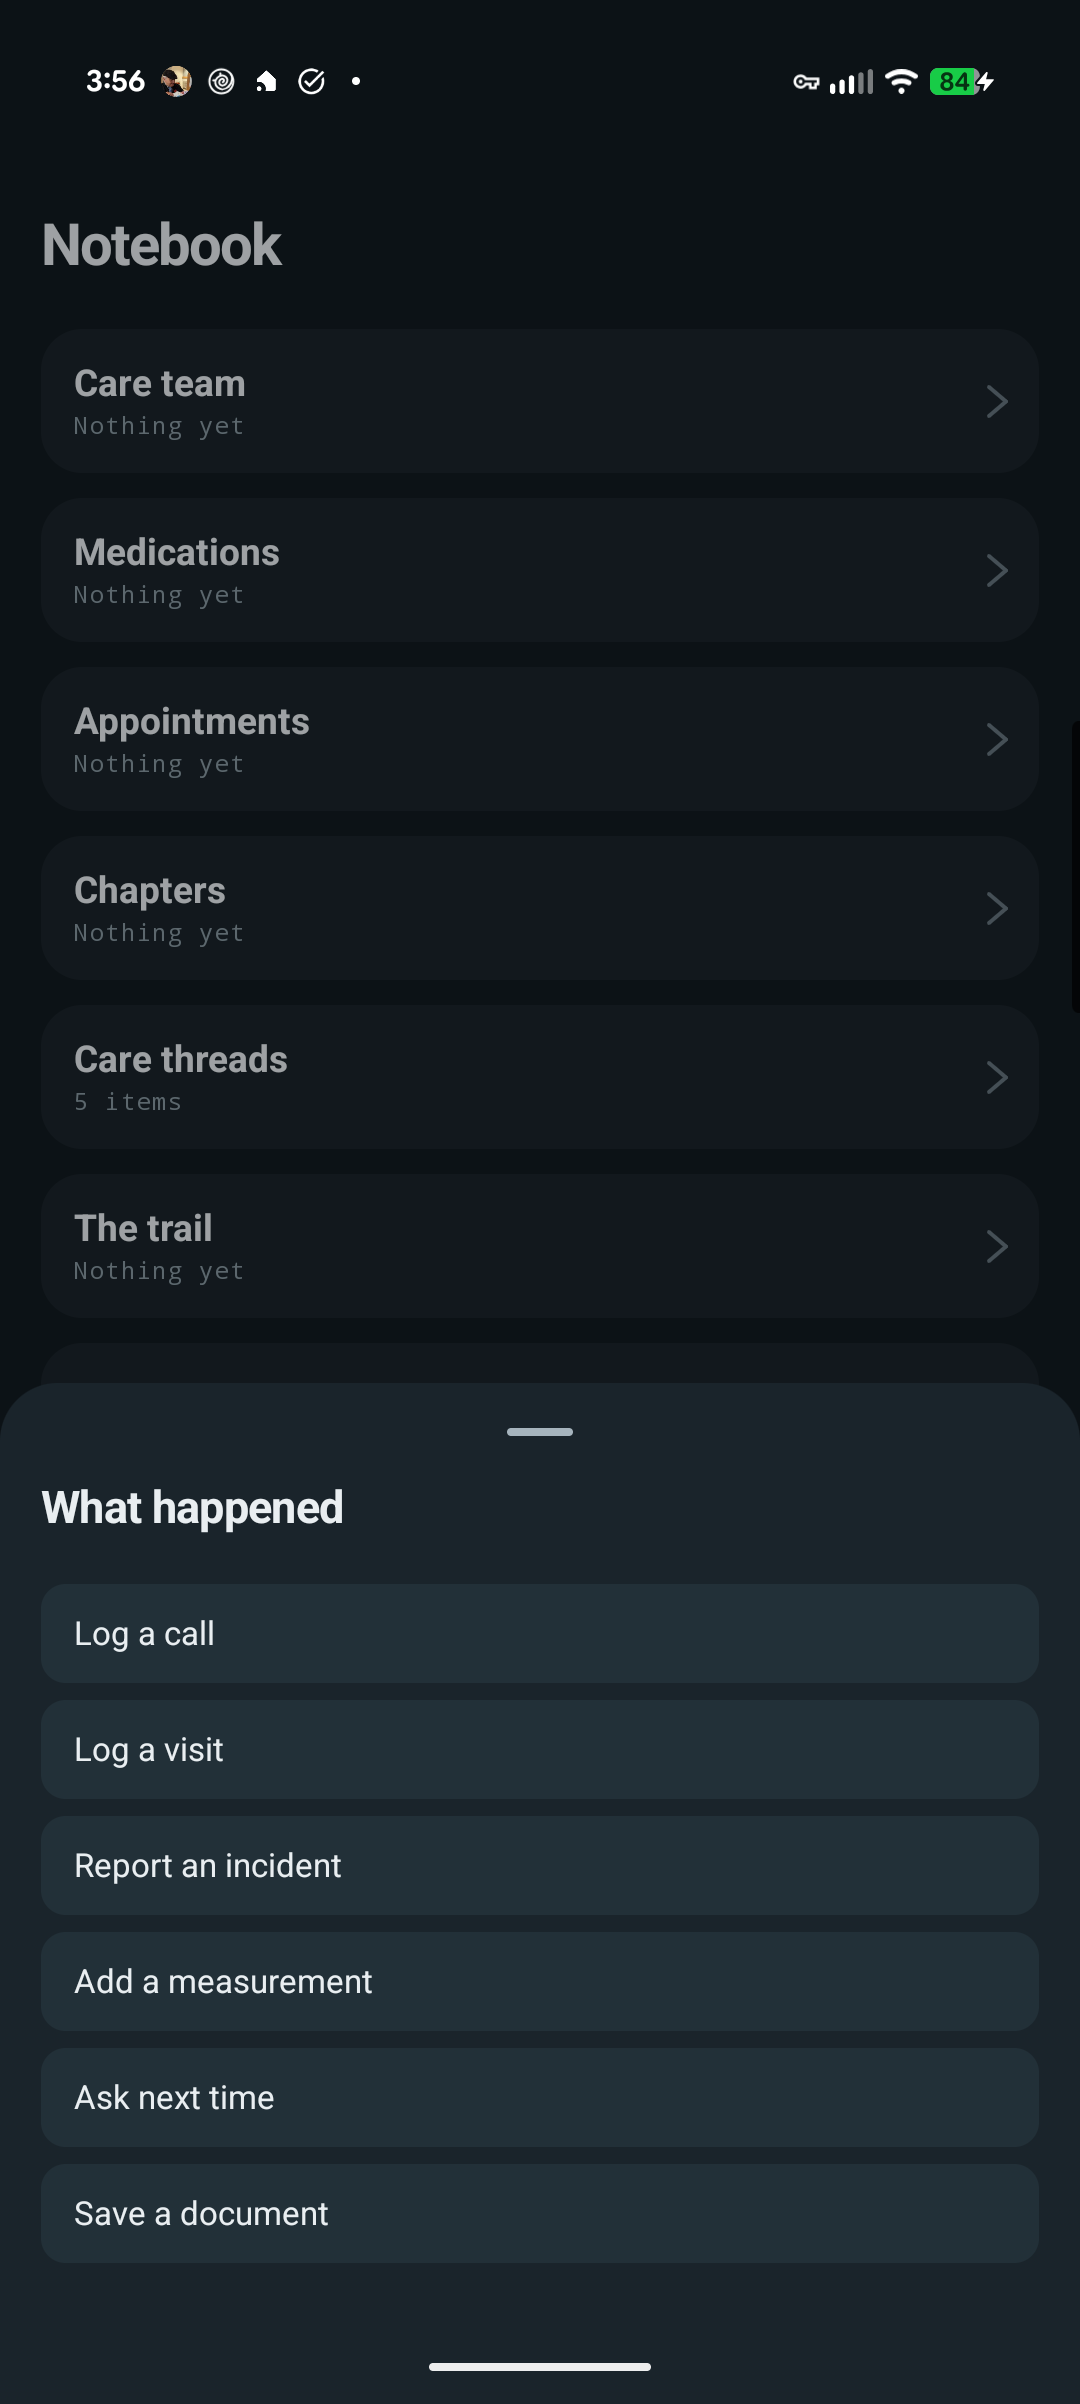
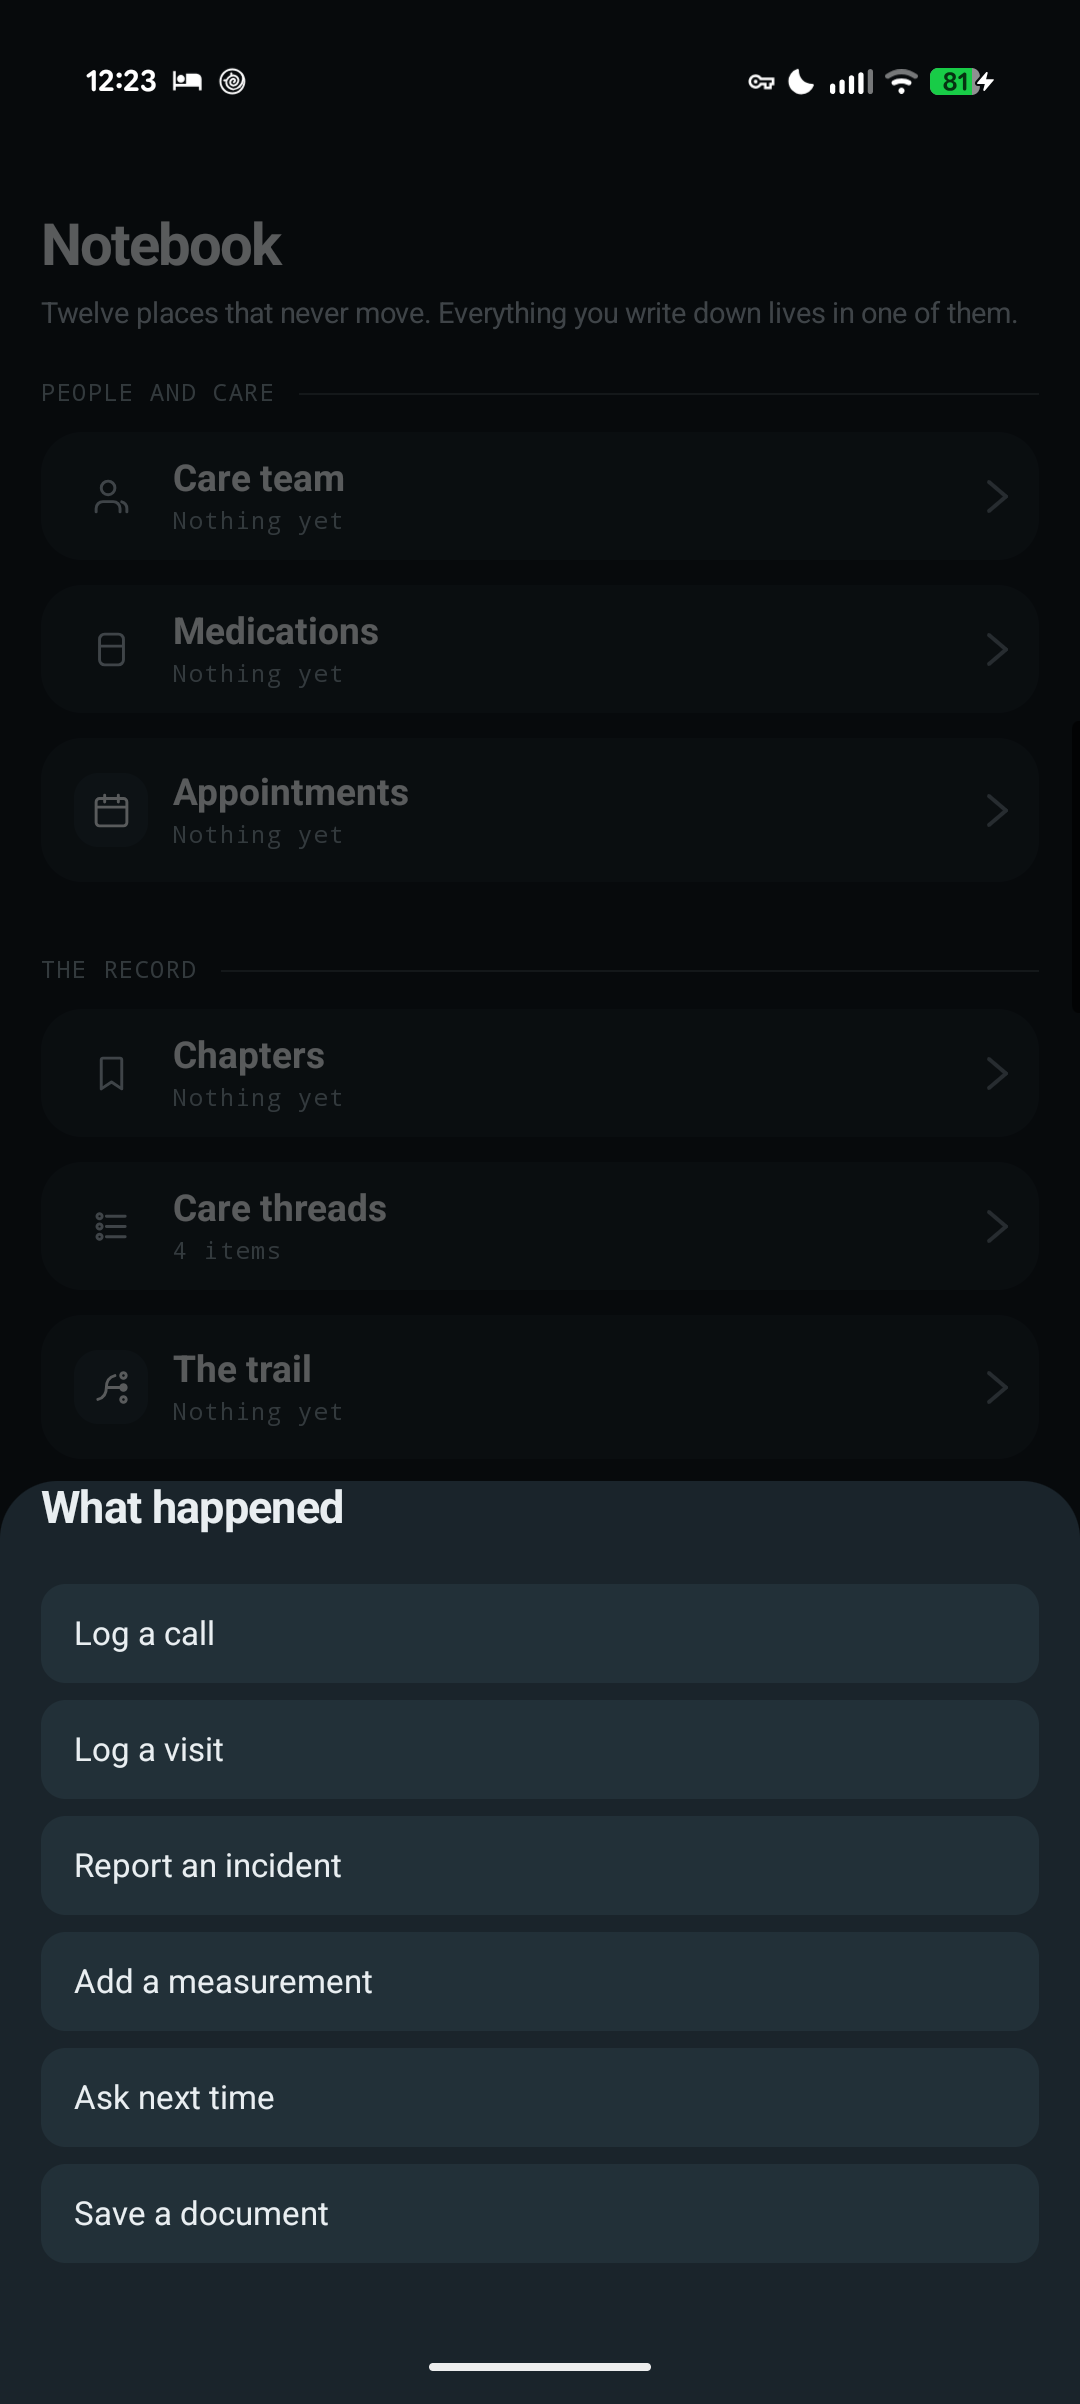
The capture sheet, looked at rather than tested
Part of issue #43, the retroactive audit. Two defects on the screen every
piece of data enters through, and neither would have been found by a test.

Choosing "Save a document" closed the sheet and did nothing, D44. To the
person that is indistinguishable from the app losing what they tried to save.
It now says plainly that it is not built and why: it needs somewhere to keep
the photograph, and that is being built first so nothing they save can go
missing. The reason matters, because "not built yet" on its own reads as
neglect and this audience gets enough of that elsewhere. It carries
ShellTags.NOT_BUILT so it cannot survive to release.

The scrim barely dimmed, D45. Material's default is a light veil and against
this app's dark surfaces the notebook stayed almost as bright as the sheet,
so it read as two screens at once. Black at 62%, judged on the device in dark
theme because that is the harder of the two. The notebook behind goes from
(18,26,32) to (10,14,16) and stays legible enough to keep your place.

Worth saying that the scrim was a default nobody chose. Everything else on
that screen was specified and this was inherited, which is the kind of thing
that survives a review by not being noticed.

A test now asserts every one of the six ways in either works or explains
itself, and that the explanation is a reason rather than a shrug. 92
instrumented tests pass.

diff --git a/android/app/src/main/kotlin/com/kamsiob/healthtrail/ui/NotebookShell.kt b/android/app/src/main/kotlin/com/kamsiob/healthtrail/ui/NotebookShell.kt
@@ -25,7 +25,9 @@ import com.kamsiob.healthtrail.data.TemplateCatalog
 import com.kamsiob.healthtrail.i18n.LocalStrings
 import com.kamsiob.healthtrail.ui.components.BottomNav
 import com.kamsiob.healthtrail.ui.components.Destination
+import androidx.compose.foundation.background
 import com.kamsiob.healthtrail.ui.components.FilledButton
+import com.kamsiob.healthtrail.ui.components.TextAction
 import com.kamsiob.healthtrail.ui.screens.CaptureDraft
 import com.kamsiob.healthtrail.ui.screens.CaptureFormScreen
 import com.kamsiob.healthtrail.ui.screens.CaptureKind
@@ -215,6 +217,21 @@ fun NotebookShell(repository: Repository) {
             )
         }
 
+        // **Document says so rather than doing nothing.** The sheet offers six
+        // ways in and this one is not built, so choosing it used to close the
+        // sheet and silently do nothing, which is the app appearing to lose
+        // what someone tried to save. It now says plainly that it is not built
+        // and why, which is the same honesty the not-yet-built destinations
+        // carry, and it is greppable through ShellTags.NOT_BUILT so it cannot
+        // survive to release. Issue #57.
+        if (kind == CaptureKind.DOCUMENT) {
+            NotBuiltYet(
+                name = strings["capture.document"],
+                detail = strings["capture.not_built"],
+                onClose = { capturing = null },
+            )
+        }
+
         // Measurement has its own screen because it does not fit the shared
         // form: a value needs to know what is being measured before anything
         // else on the screen means anything.
@@ -391,20 +408,30 @@ private fun CouldNotRead(onRetry: () -> Unit) {
  * here at release, that is a bug.
  */
 @Composable
-private fun NotBuiltYet(name: String) {
+private fun NotBuiltYet(
+    name: String,
+    detail: String? = null,
+    onClose: (() -> Unit)? = null,
+) {
     val strings = LocalStrings.current
     Column(
         modifier = Modifier
             .fillMaxSize()
+            .background(HealthTrail.colors.paper)
+            .systemBarsPadding()
             .padding(horizontal = Space.screenHorizontal, vertical = Space.l)
             .testTag(ShellTags.NOT_BUILT),
     ) {
         Text(text = name, style = HealthTrail.type.displayL, color = HealthTrail.colors.ink)
         Spacer(Modifier.height(Space.s))
         Text(
-            text = strings["shell.not_built"],
+            text = detail ?: strings["shell.not_built"],
             style = HealthTrail.type.bodyM,
             color = HealthTrail.colors.ink2,
         )
+        if (onClose != null) {
+            Spacer(Modifier.height(Space.l))
+            TextAction(label = strings["common.close"], onClick = onClose)
+        }
     }
 }

diff --git a/android/app/src/main/kotlin/com/kamsiob/healthtrail/ui/screens/CaptureSheet.kt b/android/app/src/main/kotlin/com/kamsiob/healthtrail/ui/screens/CaptureSheet.kt
@@ -22,6 +22,7 @@ import androidx.compose.runtime.remember
 import androidx.compose.ui.Alignment
 import androidx.compose.ui.Modifier
 import androidx.compose.ui.draw.clip
+import androidx.compose.ui.graphics.Color
 import androidx.compose.ui.platform.testTag
 import androidx.compose.ui.unit.dp
 import androidx.compose.ui.semantics.Role
@@ -77,6 +78,12 @@ fun CaptureSheet(
         onDismissRequest = onDismiss,
         sheetState = sheetState,
         containerColor = colors.card,
+        // **A scrim that actually dims.** Material's default is a light veil,
+        // and against this app's dark surfaces the notebook behind the sheet
+        // stayed almost as bright as the sheet itself and went on competing for
+        // the eye. Looked at on the phone, it did not read as a sheet over a
+        // screen so much as two screens at once.
+        scrimColor = Color.Black.copy(alpha = SCRIM_ALPHA),
         shape = Radius.bottomSheet,
         // **No drag handle**, and it is removed rather than labeled.
         //
@@ -173,3 +180,13 @@ private fun labelKey(kind: CaptureKind): String = when (kind) {
     CaptureKind.QUESTION -> "capture.question"
     CaptureKind.DOCUMENT -> "capture.document"
 }
+
+/**
+ * How far the scrim dims what is behind the sheet.
+ *
+ * Enough that the notebook reads as behind rather than beside, and not so much
+ * that the person loses where they were. Judged on the device in dark theme,
+ * which is the harder of the two: on warm paper a lighter scrim would do, and
+ * one value that works in both is worth more than two that each work in one.
+ */
+private const val SCRIM_ALPHA = 0.62f

diff --git a/android/app/src/androidTest/kotlin/com/kamsiob/healthtrail/ui/CaptureTest.kt b/android/app/src/androidTest/kotlin/com/kamsiob/healthtrail/ui/CaptureTest.kt
@@ -127,6 +127,29 @@ class CaptureTest {
     }
 
     @Test
+    fun everyWayInEitherWorksOrSaysWhyNot() {
+        // The sheet offers six ways in. Choosing one used to close the sheet
+        // and silently do nothing for the one that is not built, which is the
+        // app appearing to lose what somebody tried to save. Whatever is
+        // unbuilt must say so, and it must say so in words rather than by
+        // going quiet.
+        val strings = Strings.load(context)
+        CaptureKind.entries.forEach { kind ->
+            val handled = kind.usesTheSharedForm ||
+                kind == CaptureKind.MEASUREMENT ||
+                kind == CaptureKind.DOCUMENT
+            assertTrue(
+                "$kind is offered on the sheet and nothing happens when it is chosen",
+                handled,
+            )
+        }
+        // And the one that is not built says why, rather than only that it is
+        // not built, because "not built" on its own reads as neglect.
+        val why = strings["capture.not_built"]
+        assertTrue("the unbuilt path does not explain itself: $why", why.length > 40)
+    }
+
+    @Test
     fun theThreadDefaultsToNotKnowingAndSaysWhereThatGoes() {
         // Not knowing is the honest default for someone who just tapped save,
         // and the screen has to say where the entry is going while they can

diff --git a/HANDOFF.md b/HANDOFF.md
@@ -70,12 +70,13 @@ Verified means checked through the mechanism, not inferred from the code being w
 | The notebook's fold behavior | Walked on the Pixel with a hospital stay template: appointments, the trail, documents, and standing instructions forward, money and progress collapsed, which is exactly what that template names |
 | Dynamic type at font scale 2.0 | Every built screen looked at on the phone with the system font at maximum. Two defects found and fixed, both invisible at 1.0. The setting was restored afterward |
 | Reduced motion | Verified with `animator_duration_scale` actually set to 0 on the phone, not by reading the code. A press still acknowledges, reaching the same target through a 100ms fade rather than a spring. The setting was restored afterward |
+| The capture sheet, looked at with fresh eyes | Two defects nothing else would have found: "Save a document" closed the sheet and did nothing, and the inherited Material scrim barely dimmed the notebook behind it. D44 and D45 |
 | Screen reader labels | `ScreenReaderTest` walks every screen's semantics tree, including a sheet's own window, and fails any touchable node with no text and no content description. Nine screens. It found one on its first run and that is fixed |
 | Every screen looked at with the keyboard up | Two defects found that way and nowhere else: the setup button colliding with the last field, and the field clipped mid-box at the scroll boundary |
 | The Unfiled tray | Walked on the Pixel end to end: a call saved with no thread, the waiting card appears on the notebook, the tray suggests "Nursing" from the words in the entry, filing it links the thread and clears the tray in one transaction, and the card disappears |
 | The press state, everywhere | Measured on the device on three different surfaces: a card row (26,36,43) to (43,50,56), the filled button (127,182,212) to (136,186,214), the capture button (227,177,85) to (228,182,100). `FilledButton` and `TextAction` previously had no press state at all |
 
-**The whole instrumented suite: 91 tests, 0 failures**, run on the connected Pixel 10 Pro XL. All seven implemented compliance checks pass. JVM unit tests pass.
+**The whole instrumented suite: 92 tests, 0 failures**, run on the connected Pixel 10 Pro XL. All seven implemented compliance checks pass. JVM unit tests pass.
 
 ---
 
